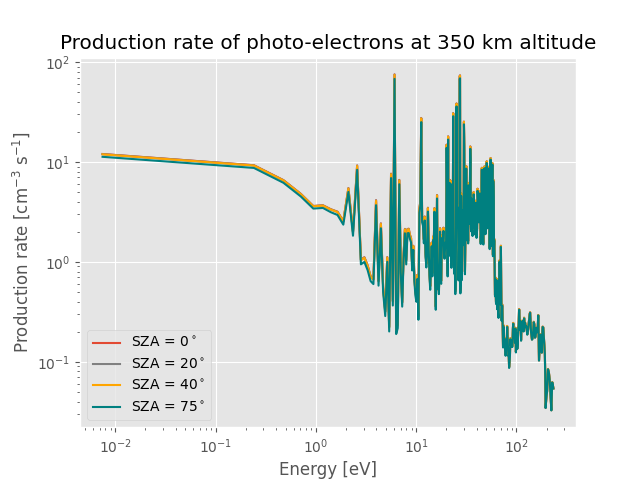
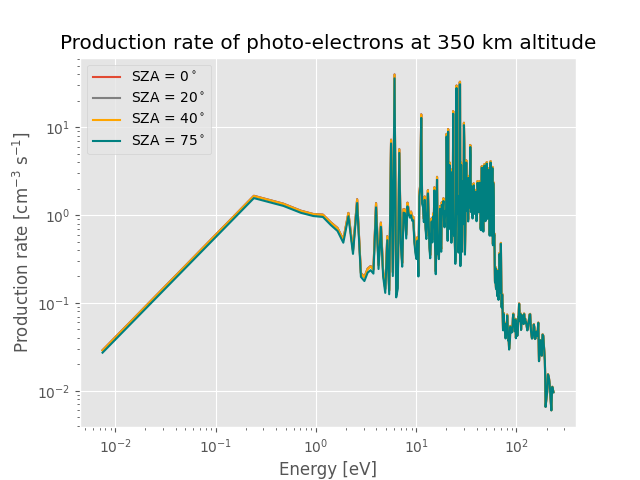
problem fixed

diff --git a/Oblig 3/Photo-ionization.py b/Oblig 3/Photo-ionization.py
@@ -23,6 +23,18 @@ height, O, N2, O2 = np.loadtxt(r'Data\MSIS.dat', unpack = True ,skiprows=18, use
 wavelength, absorption_cross_section_N2, absorption_cross_section_O2, absorption_cross_section_O = np.loadtxt("Data\phot_abs.dat", skiprows=8, unpack=True)
 wavelength_fism, irradiance = np.loadtxt("Data\Fism_daily_hr19990216.dat",  unpack = True, skiprows = 51, max_rows=949, delimiter=',', usecols = (1, 2))
 
+sigma_ionization = sc.io.loadmat(r'Data\sigma_ionization.mat')
+
+ionization_cross_section_N2 = sigma_ionization['sigma_N2ion_of_wl']
+ionization_cross_section_N2 = ionization_cross_section_N2.reshape(ionization_cross_section_N2.shape[1]) # reshaping to 1D array
+ionization_cross_section_O2 = sigma_ionization['sigma_O2ion_of_wl']
+ionization_cross_section_O2 = ionization_cross_section_O2.reshape(ionization_cross_section_O2.shape[1]) # reshaping to 1D array
+ionization_cross_section_O = sigma_ionization['sigma_Oion_of_wl']
+ionization_cross_section_O = ionization_cross_section_O.reshape(ionization_cross_section_O.shape[1]) # reshaping to 1D array
+
+wavelength_ionization = sigma_ionization['wl']
+wavelength_ionization = wavelength_ionization.reshape(wavelength_ionization.shape[1]) # reshaping to 1D array
+
 # Converting to SI units
 wavelength_fism *= 1e-9 # m
 height *= 1e3
@@ -40,13 +52,13 @@ O_threshold = 9.11e-8 # Ångström -> m
 
 #___________________________________________________________
 #Since data have different sizes, we need to interpolate the data to the same size
-interpolate_N2 = sc.interpolate.interp1d(wavelength, absorption_cross_section_N2, kind='linear')
-interpolate_O2 = sc.interpolate.interp1d(wavelength, absorption_cross_section_O2, kind='linear')
-interpolate_O  = sc.interpolate.interp1d(wavelength, absorption_cross_section_O,  kind='linear')
+interpolate_N2 = sc.interpolate.interp1d(wavelength_ionization, ionization_cross_section_N2, kind='linear', fill_value="extrapolate")
+interpolate_O2 = sc.interpolate.interp1d(wavelength_ionization, ionization_cross_section_O2, kind='linear', fill_value="extrapolate")
+interpolate_O  = sc.interpolate.interp1d(wavelength_ionization, ionization_cross_section_O,  kind='linear', fill_value="extrapolate")
 
-absorption_cross_section_N2 = interpolate_N2(wavelength_fism)
-absorption_cross_section_O2 = interpolate_O2(wavelength_fism)
-absorption_cross_section_O  = interpolate_O(wavelength_fism)
+ionization_cross_section_N2 = interpolate_N2(wavelength_fism)
+ionization_cross_section_O2 = interpolate_O2(wavelength_fism)
+ionization_cross_section_O  =  interpolate_O(wavelength_fism)
 #___________________________________________________________
 
 
@@ -63,9 +75,9 @@ def production_rate(I, wavelength, threshold, sigma, n, alititude):
     return P, E
 
 def phot_e_prod(altitude, all_I):
-    P_N2, E_N2 = production_rate(all_I, wavelength_fism, N2_threshold, absorption_cross_section_N2, N2, altitude)
-    P_O2, E_O2 = production_rate(all_I, wavelength_fism, O2_threshold, absorption_cross_section_O2, O2, altitude)
-    P_O, E_O = production_rate(all_I, wavelength_fism, O_threshold, absorption_cross_section_O, O, altitude)
+    P_N2, E_N2 = production_rate(all_I, wavelength_fism, N2_threshold, ionization_cross_section_N2, N2, altitude)
+    P_O2, E_O2 = production_rate(all_I, wavelength_fism, O2_threshold, ionization_cross_section_O2, O2, altitude)
+    P_O, E_O = production_rate(all_I, wavelength_fism, O_threshold, ionization_cross_section_O, O, altitude)
     
     energy = np.linspace(np.min(E_O), np.max(E_O2), 1000) # Energy range for interpolation
     
@@ -89,7 +101,7 @@ for z in range(len(height)):
 plt.pcolormesh(energies, height*1e-3, p, norm = colors.LogNorm(vmin = 1e3, vmax = 1e-1))
 plt.xlabel("Energy [eV]")
 plt.ylabel("Altitude [km]")
-plt.title("Production rate of photo-electrons SZA = 75$^\circ$")
+plt.title("Production rate of photo-electrons SZA = 0$^\circ$")
 plt.colorbar(label = "Production rate [cm$^{-3}$ s$^{-1}$]")
 plt.show()
 
@@ -187,9 +199,9 @@ def ionization_profile(I, wavelength, threshold, sigma, n):
         q[i] = integral * n[i] # photo-ionization rate
     return q*1e9 # -> cm^-3 s^-1
 
-q_N2 = ionization_profile(all_I[0], wavelength_fism, N2_threshold, absorption_cross_section_N2, N2)*1e-6
-q_O2 = ionization_profile(all_I[0], wavelength_fism, O2_threshold, absorption_cross_section_O2, O2)*1e-6
-q_O = ionization_profile(all_I[0], wavelength_fism, O_threshold, absorption_cross_section_O, O)*1e-6
+q_N2 = ionization_profile(all_I[0], wavelength_fism, N2_threshold, ionization_cross_section_N2, N2)*1e-6
+q_O2 = ionization_profile(all_I[0], wavelength_fism, O2_threshold, ionization_cross_section_O2, O2)*1e-6
+q_O = ionization_profile(all_I[0], wavelength_fism, O_threshold, ionization_cross_section_O, O)*1e-6
 total_q = q_N2 + q_O2 + q_O # total photo-ionization rate
 
 # Plotting photo-ionization rate as a function of altitude
@@ -199,7 +211,7 @@ plt.plot(q_N2, height*1e-3, label="N2", color = "gray")
 plt.plot(total_q, height*1e-3, label="Total", color = "teal")
 plt.xlabel("q [cm$^{-3}$ s$^{-1}$]")
 plt.ylabel("Height [km]")
-plt.title("photo-ionization rate SZA = 75$^\circ$")
+plt.title("photo-ionization rate SZA = 0$^\circ$")
 plt.legend()
 plt.show()
 
@@ -219,6 +231,6 @@ for i in range(len(szas)):
     plt.xlabel("q [cm$^{-3}$ s$^{-1}$]")
     plt.ylabel("Height [km]")
     plt.title("Chapman profile")
-    plt.xlim(-10, 5800)
+    plt.xlim(-10, 3800)
     plt.legend()
 plt.show()

diff --git a/Oblig 3/noe.py b/Oblig 3/noe.py
@@ -22,8 +22,7 @@ szas = np.array([0, 10, 20, 30, 40, 50, 75])
 
 height, O, N2, O2 = np.loadtxt(r'Data\MSIS.dat', unpack = True ,skiprows=18, usecols= (0, 1, 2, 3))
 wavelength, absorption_cross_section_N2, absorption_cross_section_O2, absorption_cross_section_O = np.loadtxt("Data\phot_abs.dat", skiprows=8, unpack=True)
-wavelength_fism, irradiance = np.loadtxt("Data\Fism_daily_hr19990216.dat",  unpack = True, skiprows = 51, max_rows=949, delimiter=',', usecols = (1, 2))
-
+wavelength_fism, irradiance = np.loadtxt("Data\Fism_daily_hr19990216.dat",  unpack = True, skiprows = 51, max_rows=949, delimiter=',', usecols = (1, 2)) 
 
 sigma_ionization = scipy.io.loadmat(r'Data\sigma_ionization.mat')
 
@@ -36,8 +35,6 @@ ionization_cross_section_O = ionization_cross_section_O.reshape(ionization_cross
 
 wavelength_ionization = sigma_ionization['wl']
 wavelength_ionization = wavelength_ionization.reshape(wavelength_ionization.shape[1]) # reshaping to 1D array
-wavelength_ionization *= 1e-10 # Ångström -> m
-
 
 # Converting to SI units
 wavelength_fism *= 1e-9 # m
@@ -56,13 +53,13 @@ O_threshold = 9.11e-8 # Ångström -> m
 
 #___________________________________________________________
 #Since data have different sizes, we need to interpolate the data to the same size
-interpolate_N2 = sc.interpolate.interp1d(wavelength_ionization, ionization_cross_section_N2, kind='linear')
-interpolate_O2 = sc.interpolate.interp1d(wavelength_ionization, ionization_cross_section_O2, kind='linear')
-interpolate_O  = sc.interpolate.interp1d(wavelength_ionization, ionization_cross_section_O,  kind='linear')
+interpolate_N2 = sc.interpolate.interp1d(wavelength_ionization, ionization_cross_section_N2, kind='linear', fill_value="extrapolate")
+interpolate_O2 = sc.interpolate.interp1d(wavelength_ionization, ionization_cross_section_O2, kind='linear', fill_value="extrapolate")
+interpolate_O  = sc.interpolate.interp1d(wavelength_ionization, ionization_cross_section_O,  kind='linear', fill_value="extrapolate")
 
-ionization_cross_section_N2 = interpolate_N2(wavelength_ionization)
-ionization_cross_section_O2 = interpolate_O2(wavelength_ionization)
-ionization_cross_section_O  =  interpolate_O(wavelength_ionization)
+ionization_cross_section_N2 = interpolate_N2(wavelength_fism)
+ionization_cross_section_O2 = interpolate_O2(wavelength_fism)
+ionization_cross_section_O  =  interpolate_O(wavelength_fism)
 #___________________________________________________________
 
 
@@ -79,10 +76,9 @@ def production_rate(I, wavelength, threshold, sigma, n, alititude):
     return P, E
 
 def phot_e_prod(altitude, all_I):
-    P_N2, E_N2 = production_rate(all_I, wavelength_ionization, N2_threshold, ionization_cross_section_N2, N2, altitude)
-    P_O2, E_O2 = production_rate(all_I, wavelength_ionization, O2_threshold, ionization_cross_section_O2, O2, altitude)
-    P_O, E_O =   production_rate(all_I, wavelength_ionization, O_threshold, ionization_cross_section_O, O, altitude)
-    
+    P_N2, E_N2 = production_rate(all_I, wavelength_fism, N2_threshold, ionization_cross_section_N2, N2, altitude)
+    P_O2, E_O2 = production_rate(all_I, wavelength_fism, O2_threshold, ionization_cross_section_O2, O2, altitude)
+    P_O, E_O = production_rate(all_I, wavelength_fism, O_threshold, ionization_cross_section_O, O, altitude)
     
     energy = np.linspace(np.min(E_O), np.max(E_O2), 1000) # Energy range for interpolation
     
